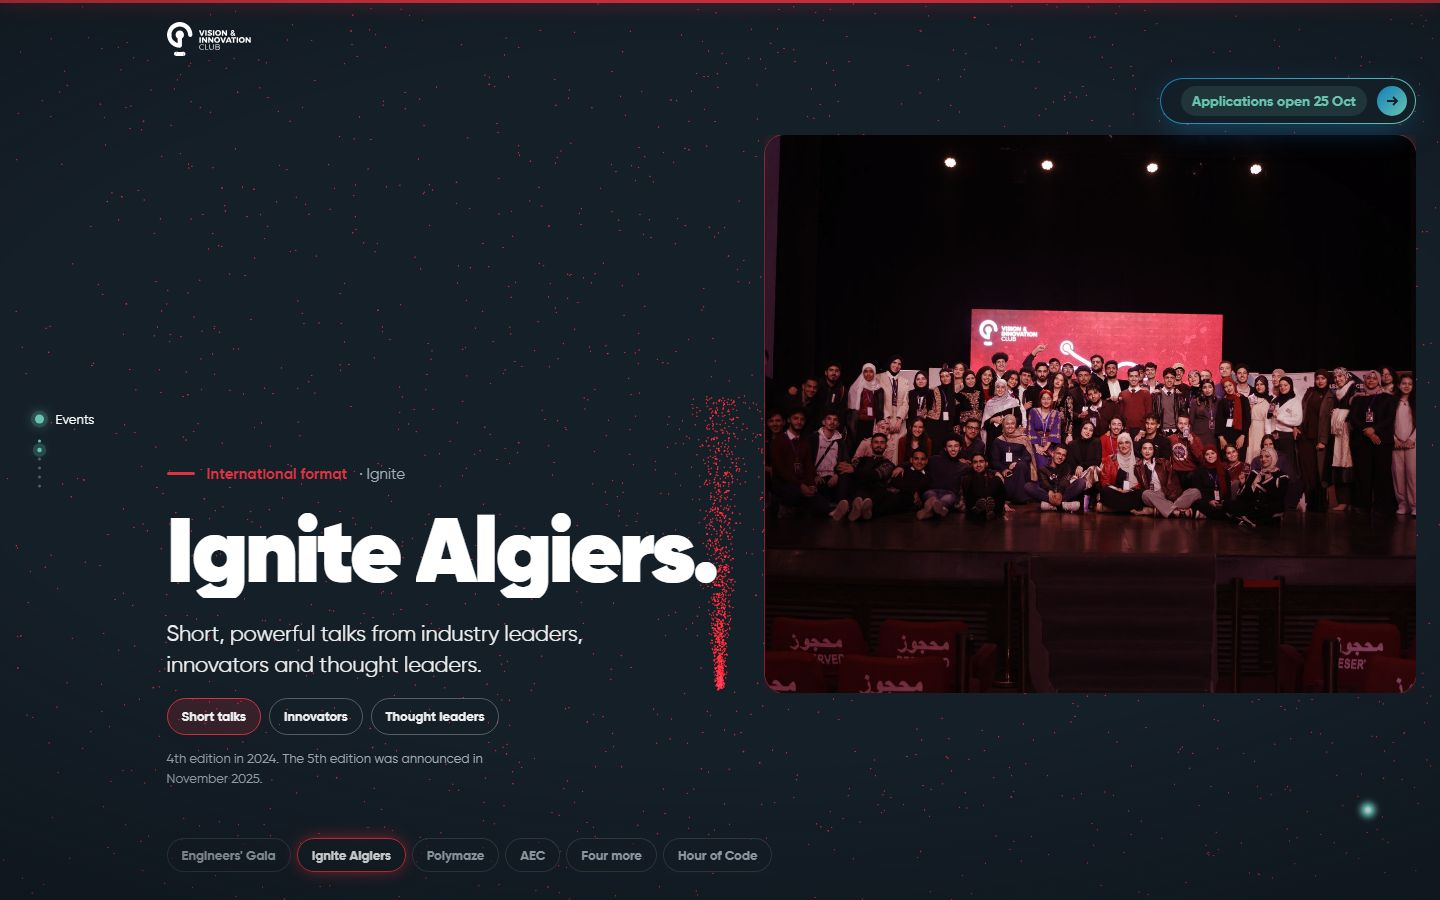
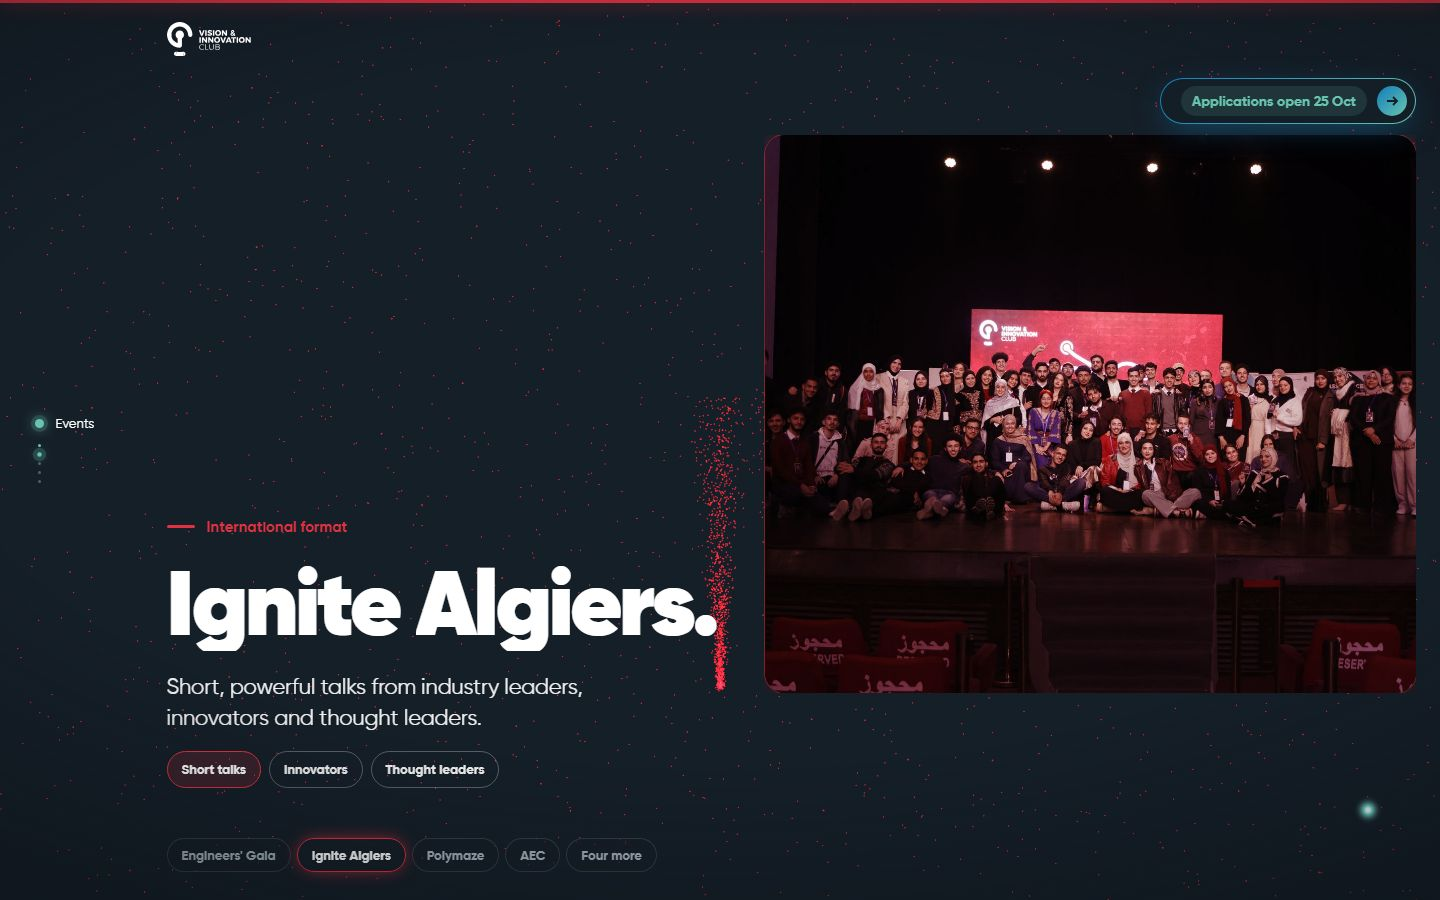
Comp #15 round 2: drop Hour of Code, no edition mentions

Changed region(s): [[0.0938, 0.4356, 0.5312, 0.9022], [0.4688, 0.9333, 0.5312, 0.9644], [0.0, 0.4667, 0.0625, 0.4978]]

diff --git a/prototype/act-events/index.html b/prototype/act-events/index.html
@@ -176,28 +176,26 @@ html.stack .streak{display:none}
   <article class="cut photo" data-f="gala" data-c="#D4A843" data-n="Engineers' Gala" style="--c:#D4A843">
     <div class="ph"><img src="pics/gala.jpg" alt="A large group in formal dress in a draped hall, Engineers' Gala"></div>
     <div class="txt">
-      <p class="lbl">Prestige event <em>· 9th edition coming this year</em></p>
+      <p class="lbl">Prestige event</p>
       <h3 class="big">Engineers' Gala.</h3>
       <p class="sub">National and international business leaders and researchers meet newly graduated engineers, to open the professional world and grow their network.</p>
       <div class="chips"><span class="id">Guest talks</span><span>Roundtables with CEOs</span><span>Networking</span></div>
-      <p class="hist">Past editions: 3rd in 2019, 4th in July 2021, 5th in July 2022, and one in autumn 2024.</p>
       <a class="ig" href="https://www.instagram.com/vic.enp/" target="_blank" rel="noopener">Gala teasers on Instagram @vic.enp <svg viewBox="0 0 16 16" fill="none" stroke="currentColor" stroke-width="1.8"><path d="M3 8h10M9 4l4 4-4 4"/></svg></a>
     </div>
   </article>
   <article class="cut photo" data-f="ignite" data-c="#E0313F" data-n="Ignite Algiers" style="--c:#E0313F">
     <div class="ph"><img src="pics/ignite.jpg" alt="A large group on a theatre stage with a red screen behind them, Ignite Algiers"></div>
     <div class="txt">
-      <p class="lbl">International format <em>· Ignite</em></p>
+      <p class="lbl">International format</p>
       <h3 class="big">Ignite Algiers.</h3>
       <p class="sub">Short, powerful talks from industry leaders, innovators and thought leaders.</p>
       <div class="chips"><span class="id">Short talks</span><span>Innovators</span><span>Thought leaders</span></div>
-      <p class="hist">4th edition in 2024. The 5th edition was announced in November 2025.</p>
     </div>
   </article>
   <article class="cut photo" data-f="poly" data-c="#69C4AF" data-n="Polymaze" style="--c:#69C4AF">
     <div class="ph"><img src="pics/polymaze.jpg" alt="A crowd gathered around a robot maze on the floor, Polymaze"></div>
     <div class="txt">
-      <p class="lbl">Robotics competition <em>· 2026</em></p>
+      <p class="lbl">Robotics competition</p>
       <h3 class="big">Polymaze.</h3>
       <p class="sub">Line-follower and maze-solving robots. Registered participants prepare in workshops, then compete on a day at ENP.</p>
       <div class="chips"><span>Line followers</span><span>Maze solvers</span><span>Prep workshops</span></div>
@@ -205,15 +203,15 @@ html.stack .streak{display:none}
   </article>
   <article class="cut" data-f="aec" data-c="#69C4AF" data-n="AEC" style="--c:#69C4AF">
     <div class="txt">
-      <p class="lbl">Algerian Engineering Competition <em>· latest edition 2026</em></p>
+      <p class="lbl">Algerian Engineering Competition</p>
       <h3 class="big">AEC.</h3>
-      <p class="sub">A national engineering competition. The first edition, in December 2018, ran in six cities at once.</p>
-      <div class="cities" aria-label="Cities of the first edition"><span>Algiers</span><span>Oran</span><span>Tlemcen</span><span>Constantine</span><span>Annaba</span><span>Ouargla</span></div>
+      <p class="sub">A national engineering competition. It has run in six cities at once: Algiers, Oran, Tlemcen, Constantine, Annaba and Ouargla.</p>
+      <div class="cities" aria-label="Host cities"><span>Algiers</span><span>Oran</span><span>Tlemcen</span><span>Constantine</span><span>Annaba</span><span>Ouargla</span></div>
     </div>
   </article>
   <article class="cut span2" data-f="more" data-c="#69C4AF" data-n="Four more" style="--c:#69C4AF">
     <div class="rows">
-      <div><b>CPSP</b><p>A starter pack for ENP newcomers: discover the school and get tips for the Prepa Cycle, with guests who were class majors. The 2026 edition was held in September.</p></div>
+      <div><b>CPSP</b><p>A starter pack for ENP newcomers: discover the school and get tips for the Prepa Cycle, with guests who were class majors.</p></div>
       <div><b>STEPS</b><p>Studying abroad, language tests and scholarships, with workshops and the "STEPS Abroad" YouTube series.</p></div>
       <div><b>Anglosphere</b><p>A celebration of the English language, with conferences, workshops and stands.</p></div>
       <div><b>VICra</b><p>VIC's Ramadan project: a series of Islamic reminders, each followed by a quiz open to everyone, with prizes.</p></div>
@@ -221,13 +219,6 @@ html.stack .streak{display:none}
     <div class="txt">
       <p class="lbl">Projects <em>· CPSP, STEPS, Anglosphere, VICra</em></p>
       <h3 class="big">Four more projects.</h3>
-    </div>
-  </article>
-  <article class="cut" data-f="hoc" data-c="#2F80ED" data-n="Hour of Code" style="--c:#2F80ED">
-    <div class="txt">
-      <p class="lbl">Part of our history</p>
-      <h3 class="big">Hour of Code.</h3>
-      <p class="sub">An international event with its own blue identity. VIC's latest edition was in 2023.</p>
     </div>
   </article>
   </div>
@@ -252,9 +243,9 @@ if (tier0) root.classList.add('t0'); else if (reduced) root.classList.add('stack
 const pinned = !tier0 && !reduced;
 
 const cuts = $$('.cut'), act = $('#act');
-// steps: six event cuts, then C's horizon. Weights are viewport heights of scroll per step (~3.2 vh of cuts).
+// steps: five event cuts, then C's horizon. Weights are viewport heights of scroll per step (~3 vh of cuts).
 const STEPS = [...cuts.map((e) => ({ f: e.dataset.f, c: e.dataset.c })), { f: 'horizon', c: '#69C4AF' }];
-const W = [0.7, 0.5, 0.5, 0.45, 0.65, 0.4, 0.6], TOTAL = W.reduce((a, b) => a + b, 0);
+const W = [0.7, 0.55, 0.55, 0.5, 0.7, 0.6], TOTAL = W.reduce((a, b) => a + b, 0);
 if (pinned) act.style.height = `${(TOTAL + 1) * 100}vh`;
 root.style.setProperty('--radius', '20px');
 
@@ -356,7 +347,7 @@ function pick() {
   $('#tint').classList.toggle('on', i % 2 === 0); // the ground steps between a lift of the night and the night
   ticks.forEach((t, k) => { t.classList.toggle('on', k <= i); t.classList.toggle('now', k === i); });
   btns.forEach((b, k) => b.setAttribute('aria-current', k === i));
-  $('#pick').style.opacity = i <= 5 ? 1 : 0; $('#note').style.opacity = i === 0 ? 1 : 0;
+  $('#pick').style.opacity = i <= 4 ? 1 : 0; $('#note').style.opacity = i === 0 ? 1 : 0;
 }
 addEventListener('scroll', pick, { passive: true }); pick();
 if (cur < 0) snap(STEPS[0]);

diff --git a/prototype/act-events/README.md b/prototype/act-events/README.md
@@ -1,6 +1,6 @@
 # Act comp: events and projects (ticket #15)
 
-Throwaway comp of act 5 of the A+B+C merge: six sideways hard cuts of the same 600-point world (Gala, Ignite, Polymaze, AEC, four more projects, Hour of Code), entered by a hard cut from the peak and left through C's horizon. Plain HTML + three.js 0.169.0 from jsDelivr. Reuses `prototype/system`'s sheet, fonts setup and tokens. This branch is never merged.
+Throwaway comp of act 5 of the A+B+C merge: five sideways hard cuts of the same 600-point world (Gala, Ignite, Polymaze, AEC, four more projects), entered by a hard cut from the peak and left through C's horizon. Plain HTML + three.js 0.169.0 from jsDelivr. Reuses `prototype/system`'s sheet, fonts setup and tokens. This branch is never merged.
 
 ## Run
 
@@ -12,5 +12,5 @@ Open `http://127.0.0.1:8793/index.html`. Copy `Gilroy-{Regular,Bold,Heavy}.woff2
 
 ## Shots
 
-`shots/step0..6-<d|m>.jpg`: Gala, Ignite, Polymaze, AEC, four more, Hour of Code, horizon (`d` 1440x900, `m` 390x844). `sheet-d/m.jpg` all seven, `handin-before-*` the peak stand-in just before the cut, `cuts-scroll-d/m.gif` a scroll capture across Gala, Ignite and Polymaze, `stack-full-*` reduced motion, `t0-full-*` tier 0.
+`shots/step0..5-<d|m>.jpg`: Gala, Ignite, Polymaze, AEC, four more, horizon (`d` 1440x900, `m` 390x844). `sheet-d/m.jpg` all seven, `cuts-scroll-d/m.gif` a scroll capture across Gala, Ignite and Polymaze, `stack-full-*` reduced motion, `t0-full-*` tier 0.
 Event colours (gold `#D4A843`, red `#E0313F`, blue `#2F80ED`) are picked by eye, not from posters (none in the repo): open question 12 for the owner. Headless Chrome for Testing (playwright-chrome), software WebGL: frame rate on a phone is not checked.
